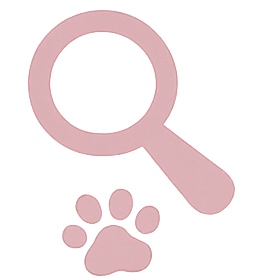
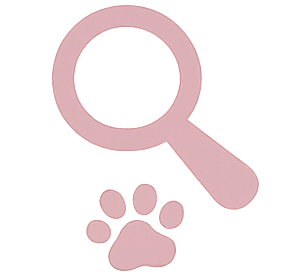
Aenderung WarumPetConnect

diff --git a/public/index.html b/public/index.html
@@ -80,7 +80,7 @@
     <h2>So funktioniert’s</h2>
     <img src="ImagesPetConnect/Colorful_paws.png" class="mb-3" width="120">
 
-    <div class="row mt-4">
+    <div class="row mt-4 g-4">
 
       <div class="col-md-4"> <!-- 4 von 12 Spalten-->
         <img src="ImagesPetConnect/User_Icon_Green.png" class="icon mb-2">
@@ -111,13 +111,13 @@
     <h2>Warum PetConnect?</h2>
     <img src="ImagesPetConnect/Colorful_paws.png" class="mb-4" width="120">
 
-    <div class="row">
+    <div class="row mt-4 g-4"> <!--g-4 = Abstand zwischen Spalten-->
 
       <div class="col-md-4">
         <div class="card-box">
           <img src="ImagesPetConnect/Green_location_pin_icon.png" class="icon mb-2">
           <h6>In deiner Umgebung</h6>
-          <p>Finde Tiersitter ganz in deiner Nähe</p>
+          <p>Filtere nach Standort und finde Tiersitter ganz in deiner Nähe</p>
         </div>
       </div>
 
@@ -125,15 +125,15 @@
         <div class="card-box">
           <img src="ImagesPetConnect/calendar_icon.png" class="icon mb-2">
           <h6>Schnell & unkompliziert</h6>
-          <p>Einfach und benutzerfreundlich</p>
+          <p>Einfach, benutzerfreundlich und in wenigen Klicks startklar</p>
         </div>
       </div>
 
       <div class="col-md-4">
         <div class="card-box">
-          <img src="ImagesPetConnect/User_Icon_Green.png" class="icon mb-2" width="10">
+          <img src="ImagesPetConnect/shield_icon.png" class="icon mb-2">
           <h6>Direkter Austausch</h6>
-          <p>Chatte mit potenziellen Tiersittern</p>
+          <p>Chatfunktion und Profilbewertungen schaffen Vertrauen</p>
         </div>
       </div>
 

diff --git a/public/PetConnect.css b/public/PetConnect.css
@@ -36,7 +36,15 @@ body {
 }
 
 h1 {
-    font-size: 2.5rem;
+    font-size: 3.5rem;
+}
+
+h6{
+    font-weight: bold;
+}
+
+h5{
+    font-weight: bold;
 }
 
 .top p {
@@ -117,7 +125,7 @@ h1 {
 }
 
 .icon {
-    width: 60px;
+    width: 100px;
 }
 
 .number {
